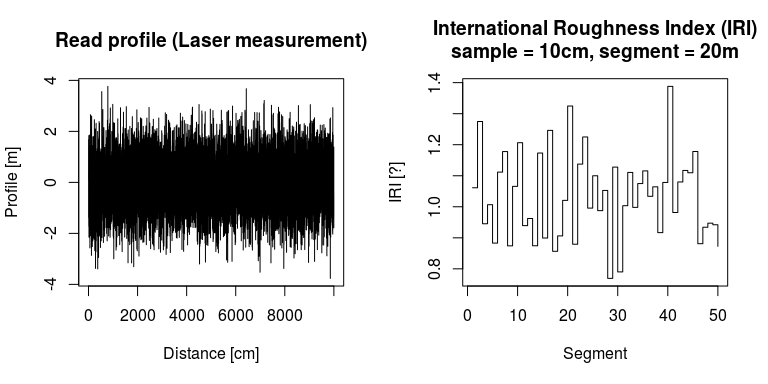
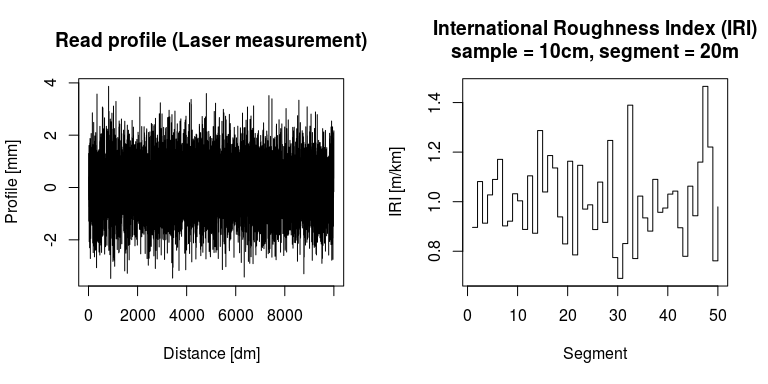
minor changes to diagram units

diff --git a/README.md b/README.md
@@ -24,12 +24,14 @@ Examples
 ``` r
 profile <- rnorm(10000)
 iri <- CalculateIRI(profile, IRI_COEF_100, 20)
+#> [1] "out of semgents"
+#> [1] "out of semgents"
 par(mfrow = c(1,2)) # space for two diagrams
 plot(profile, type="l",
-  xlab="Distance [cm]", ylab="Profile [m]",
+  xlab="Distance [dm]", ylab="Profile [mm]",
   main="Read profile (Laser measurement)")
 plot(iri, type="s",
-  xlab="Segment", ylab="IRI [?]",
+  xlab="Segment", ylab="IRI [m/km]",
   main="International Roughness Index (IRI)\nsample = 10cm, segment = 20m")
 ```
 
